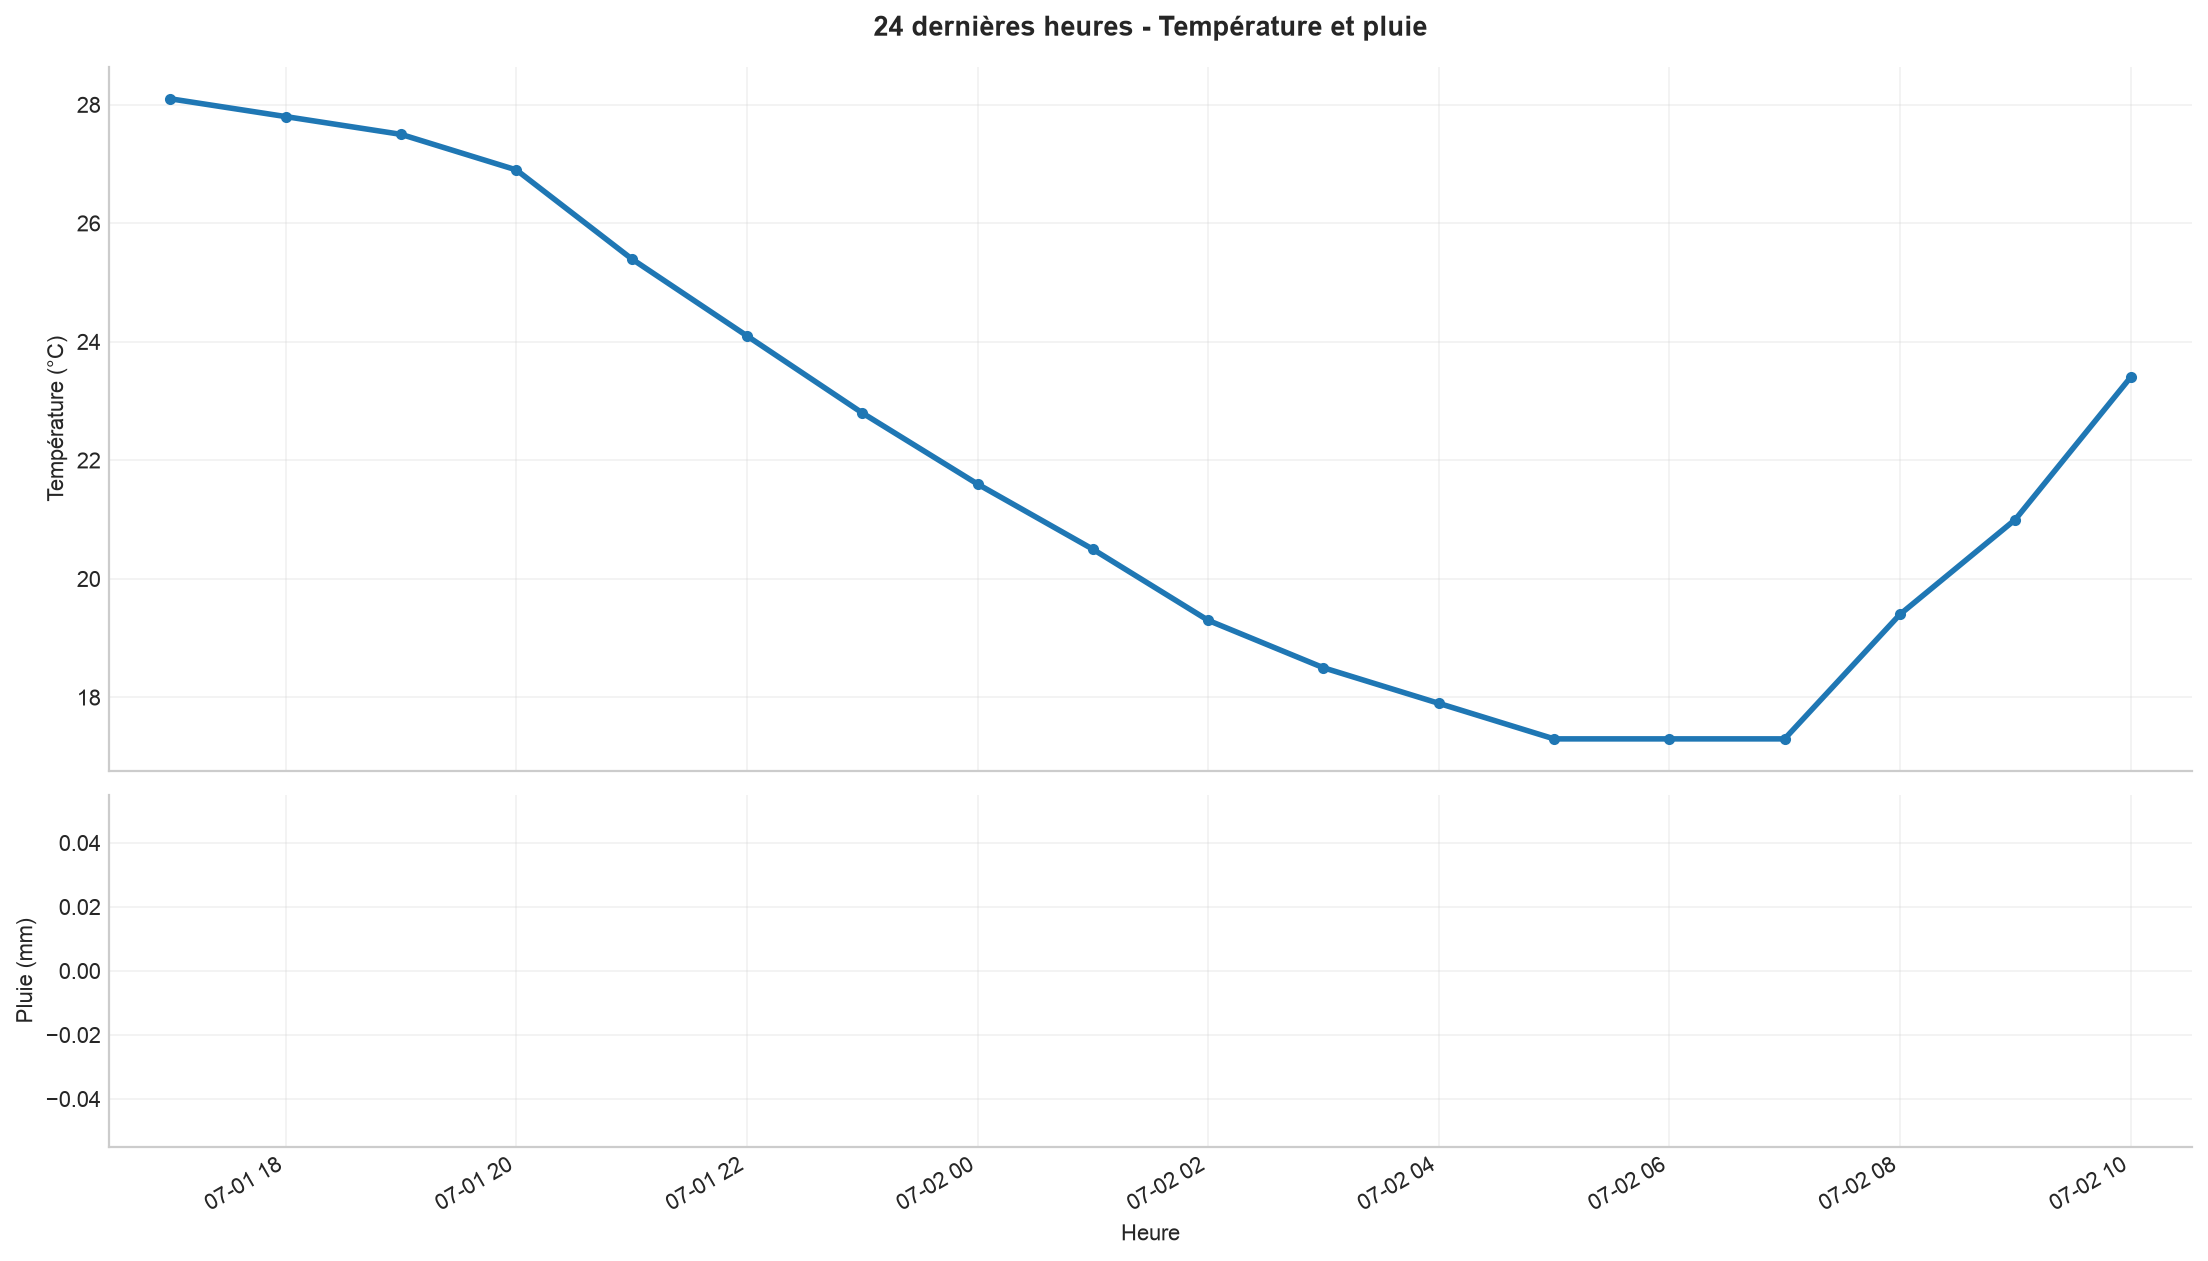
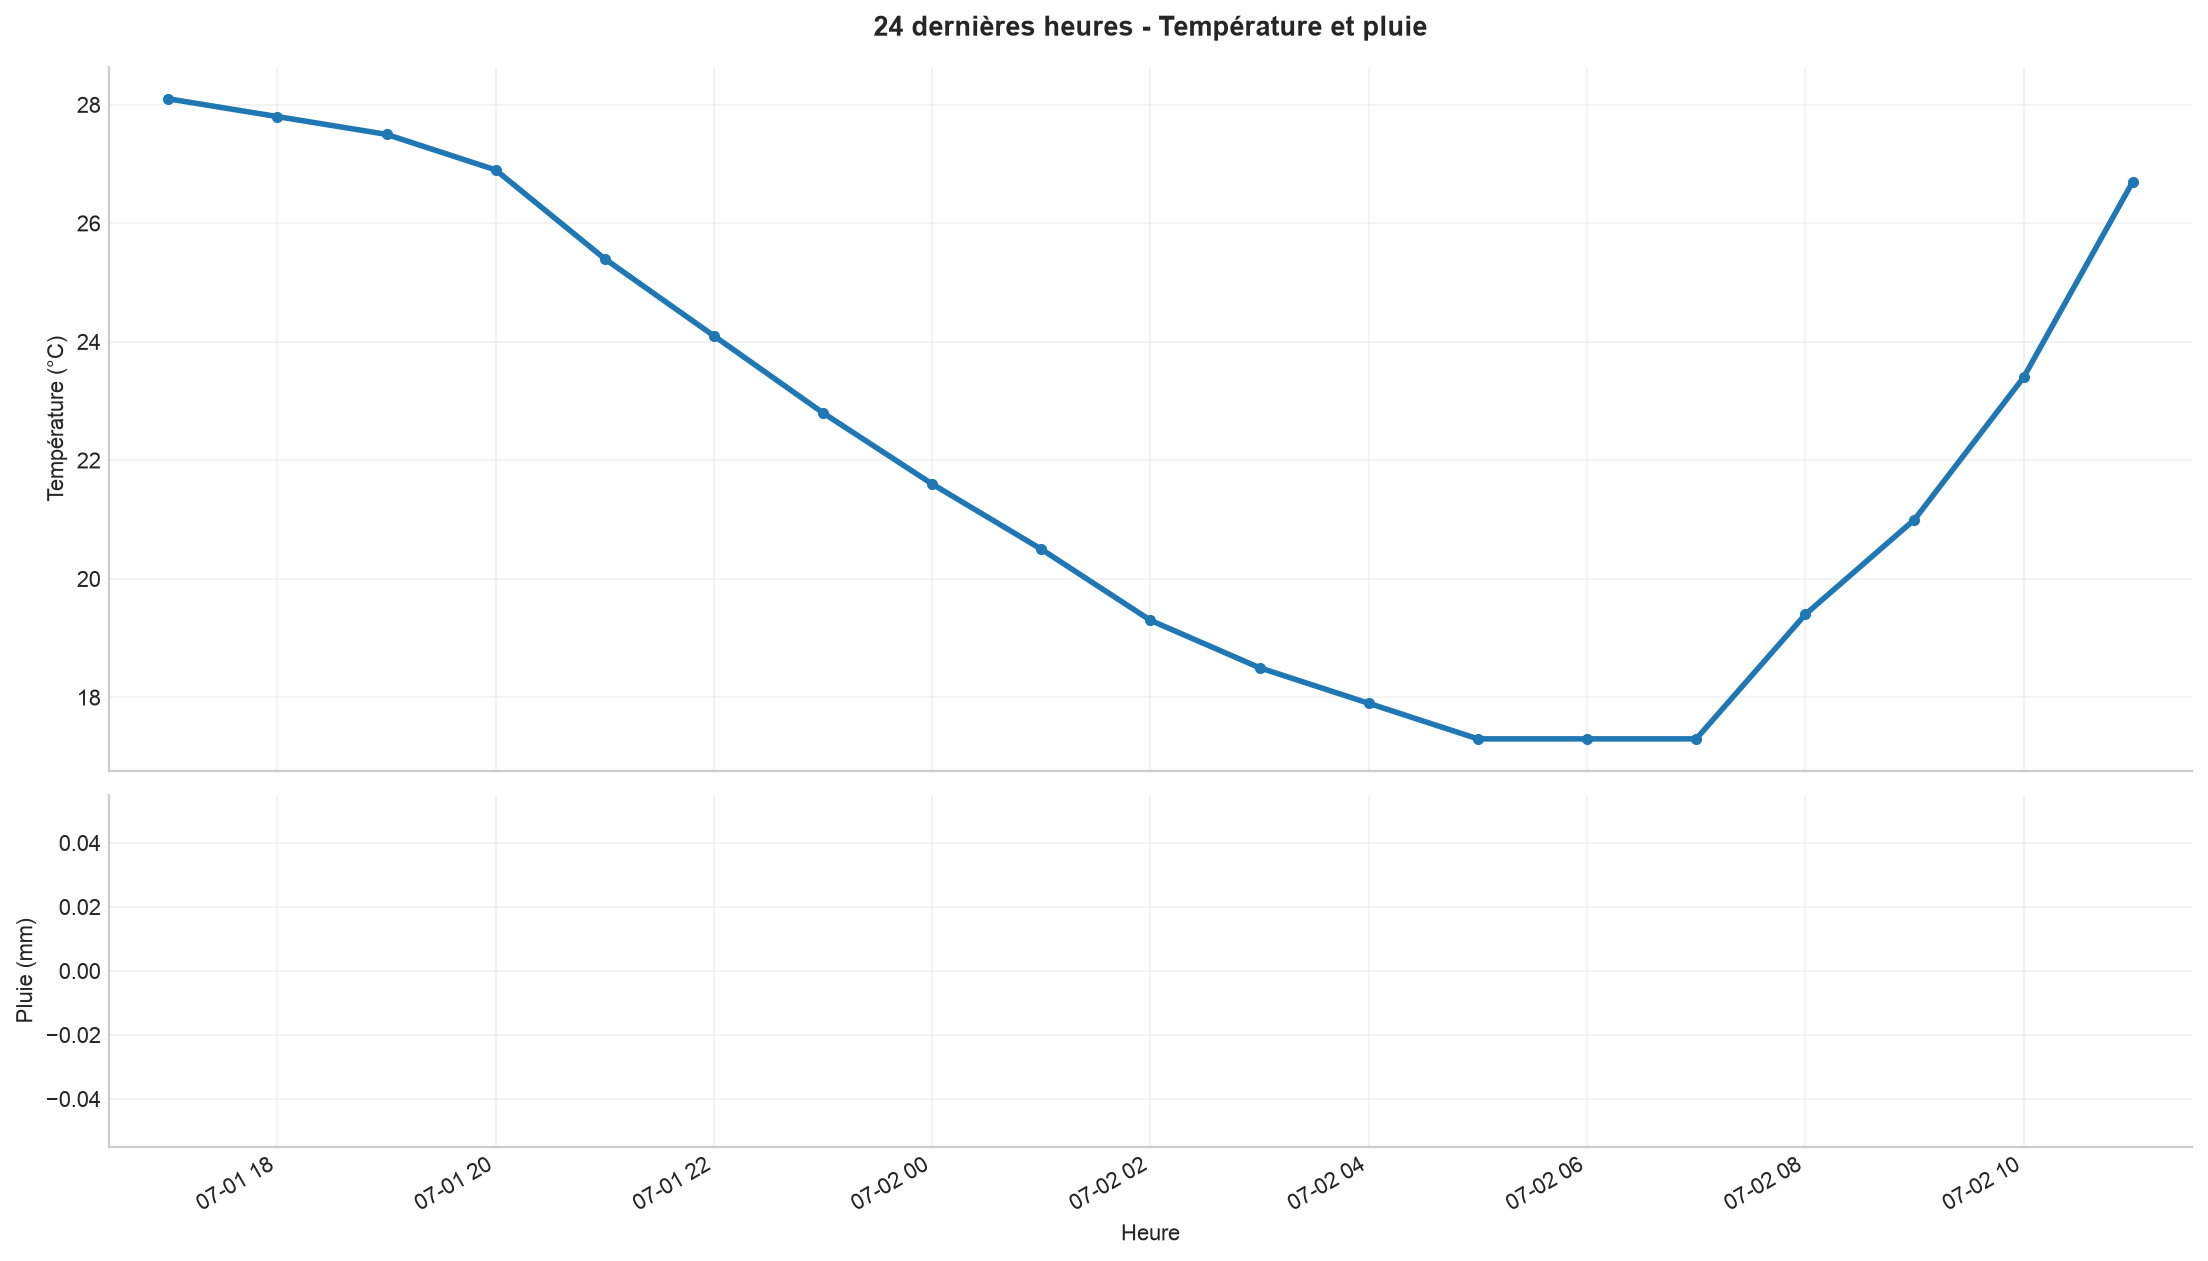
Mise à jour météo automatique

diff --git a/update_weather.py b/update_weather.py
@@ -111,6 +111,66 @@ else:
     )
 
 generate_hourly_history()
+
+from datetime import datetime, timedelta
+from zoneinfo import ZoneInfo
+import csv
+
+HISTORY_HOURLY_FILE = REPO_DIR / "data" / "history_horaire.csv"
+
+def compute_24h_extrema() -> tuple[float | None, float | None]:
+    """Retourne (t_max_24h, t_min_24h) à partir de history_horaire.csv."""
+    if not HISTORY_HOURLY_FILE.exists():
+        return None, None
+
+    # now_paris est aware, mais on retire le tz pour comparer avec des datetimes naïfs
+    now_paris_aware = datetime.now(ZoneInfo("Europe/Paris"))
+    now_paris = now_paris_aware.replace(tzinfo=None)
+    cutoff = now_paris - timedelta(hours=24)
+
+    temperatures: list[float] = []
+
+    with HISTORY_HOURLY_FILE.open("r", encoding="utf-8", newline="") as f:
+        reader = csv.DictReader(f, delimiter=";")
+        for row in reader:
+            date_str = row.get("date")
+            temp_str = row.get("temperature")
+            if not date_str or not temp_str:
+                continue
+
+            try:
+                # Format : "YYYY-MM-DD HH:MM:SS CEST"
+                dt = datetime.strptime(date_str, "%Y-%m-%d %H:%M:%S %Z")
+            except ValueError:
+                # Si le format change un jour, on ignore la ligne
+                continue
+
+            if dt >= cutoff and dt <= now_paris:
+                try:
+                    temperatures.append(float(temp_str))
+                except ValueError:
+                    continue
+
+    if not temperatures:
+        return None, None
+
+    return max(temperatures), min(temperatures)
+
+# Calcul des extrema sur les dernières 24 h
+t_max_24h, t_min_24h = compute_24h_extrema()
+
+# On recharge latest.json, on le met à jour, puis on le réécrit
+latest_data = json.loads(DATA_FILE.read_text(encoding="utf-8"))
+
+latest_data["temperature_max_c"] = t_max_24h
+latest_data["temperature_min_c"] = t_min_24h
+
+DATA_FILE.write_text(
+    json.dumps(latest_data, ensure_ascii=False, indent=2) + "\n",
+    encoding="utf-8",
+)
+
+# Puis seulement après :
 generate_weather_graph()
 
 subprocess.run(["git", "-C", str(REPO_DIR), "add", "-A"], check=True)